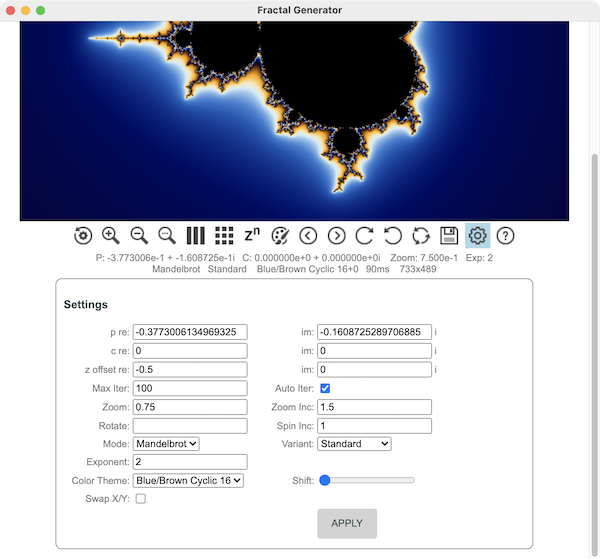
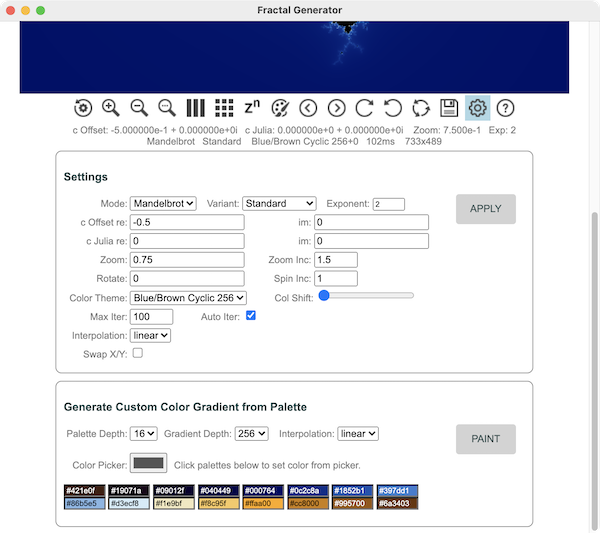
update readme

diff --git a/README.md b/README.md
@@ -2,7 +2,7 @@
 
 Just a bit of fun...
 
-A JavaScript implementation of an interactive fractal generator.  It supports both Mandelbrot and Julia modes and 'Standard', 'Burning Ship' and 'Tricorn' variants using a variety of color rendering themes.
+A JavaScript implementation of an interactive fractal generator.  It supports both Mandelbrot and Julia modes and 'Standard', 'Burning Ship' and 'Tricorn' variants using a variety of color rendering themes, including user-generated colour palettes and gradients.
 
 The application also supports basic 'Deep Zoom' and 'Julia Spin' animation.
 
@@ -34,6 +34,14 @@ The instructions can be viewed by clicking on the ![btnHelp](/resources/btnHelp.
 - Press ![btnSettings](/resources/btnSettings.png) to open or close settings panel.
 - Press ![btnHelp](/resources/btnHelp.png) to open or close help panel.
 
+### To create a custom color rendering palette
+
+- Choose from a palette of 4, 8, 12 or 16 colors.
+- Choose a gradient of 16, 32, 64, 128, 256 or 512 levels.
+- Choose the color interpolation method ('None' or 'Linear').
+- Create the palette by picking colors using the color picker widget and applying the selection to each palette slot in turn.
+- Press 'Paint'. A color gradient will be created dynamically and applied to the displayed fractal. 
+- The custom color gradient will also be added to the list of available color rendering themes in the format 'User_x_nnn', where 'x' is an auto-incremented number and 'nnn' is the number of levels.
 
 ## How to Deploy
 ### To view and deploy as a web page
